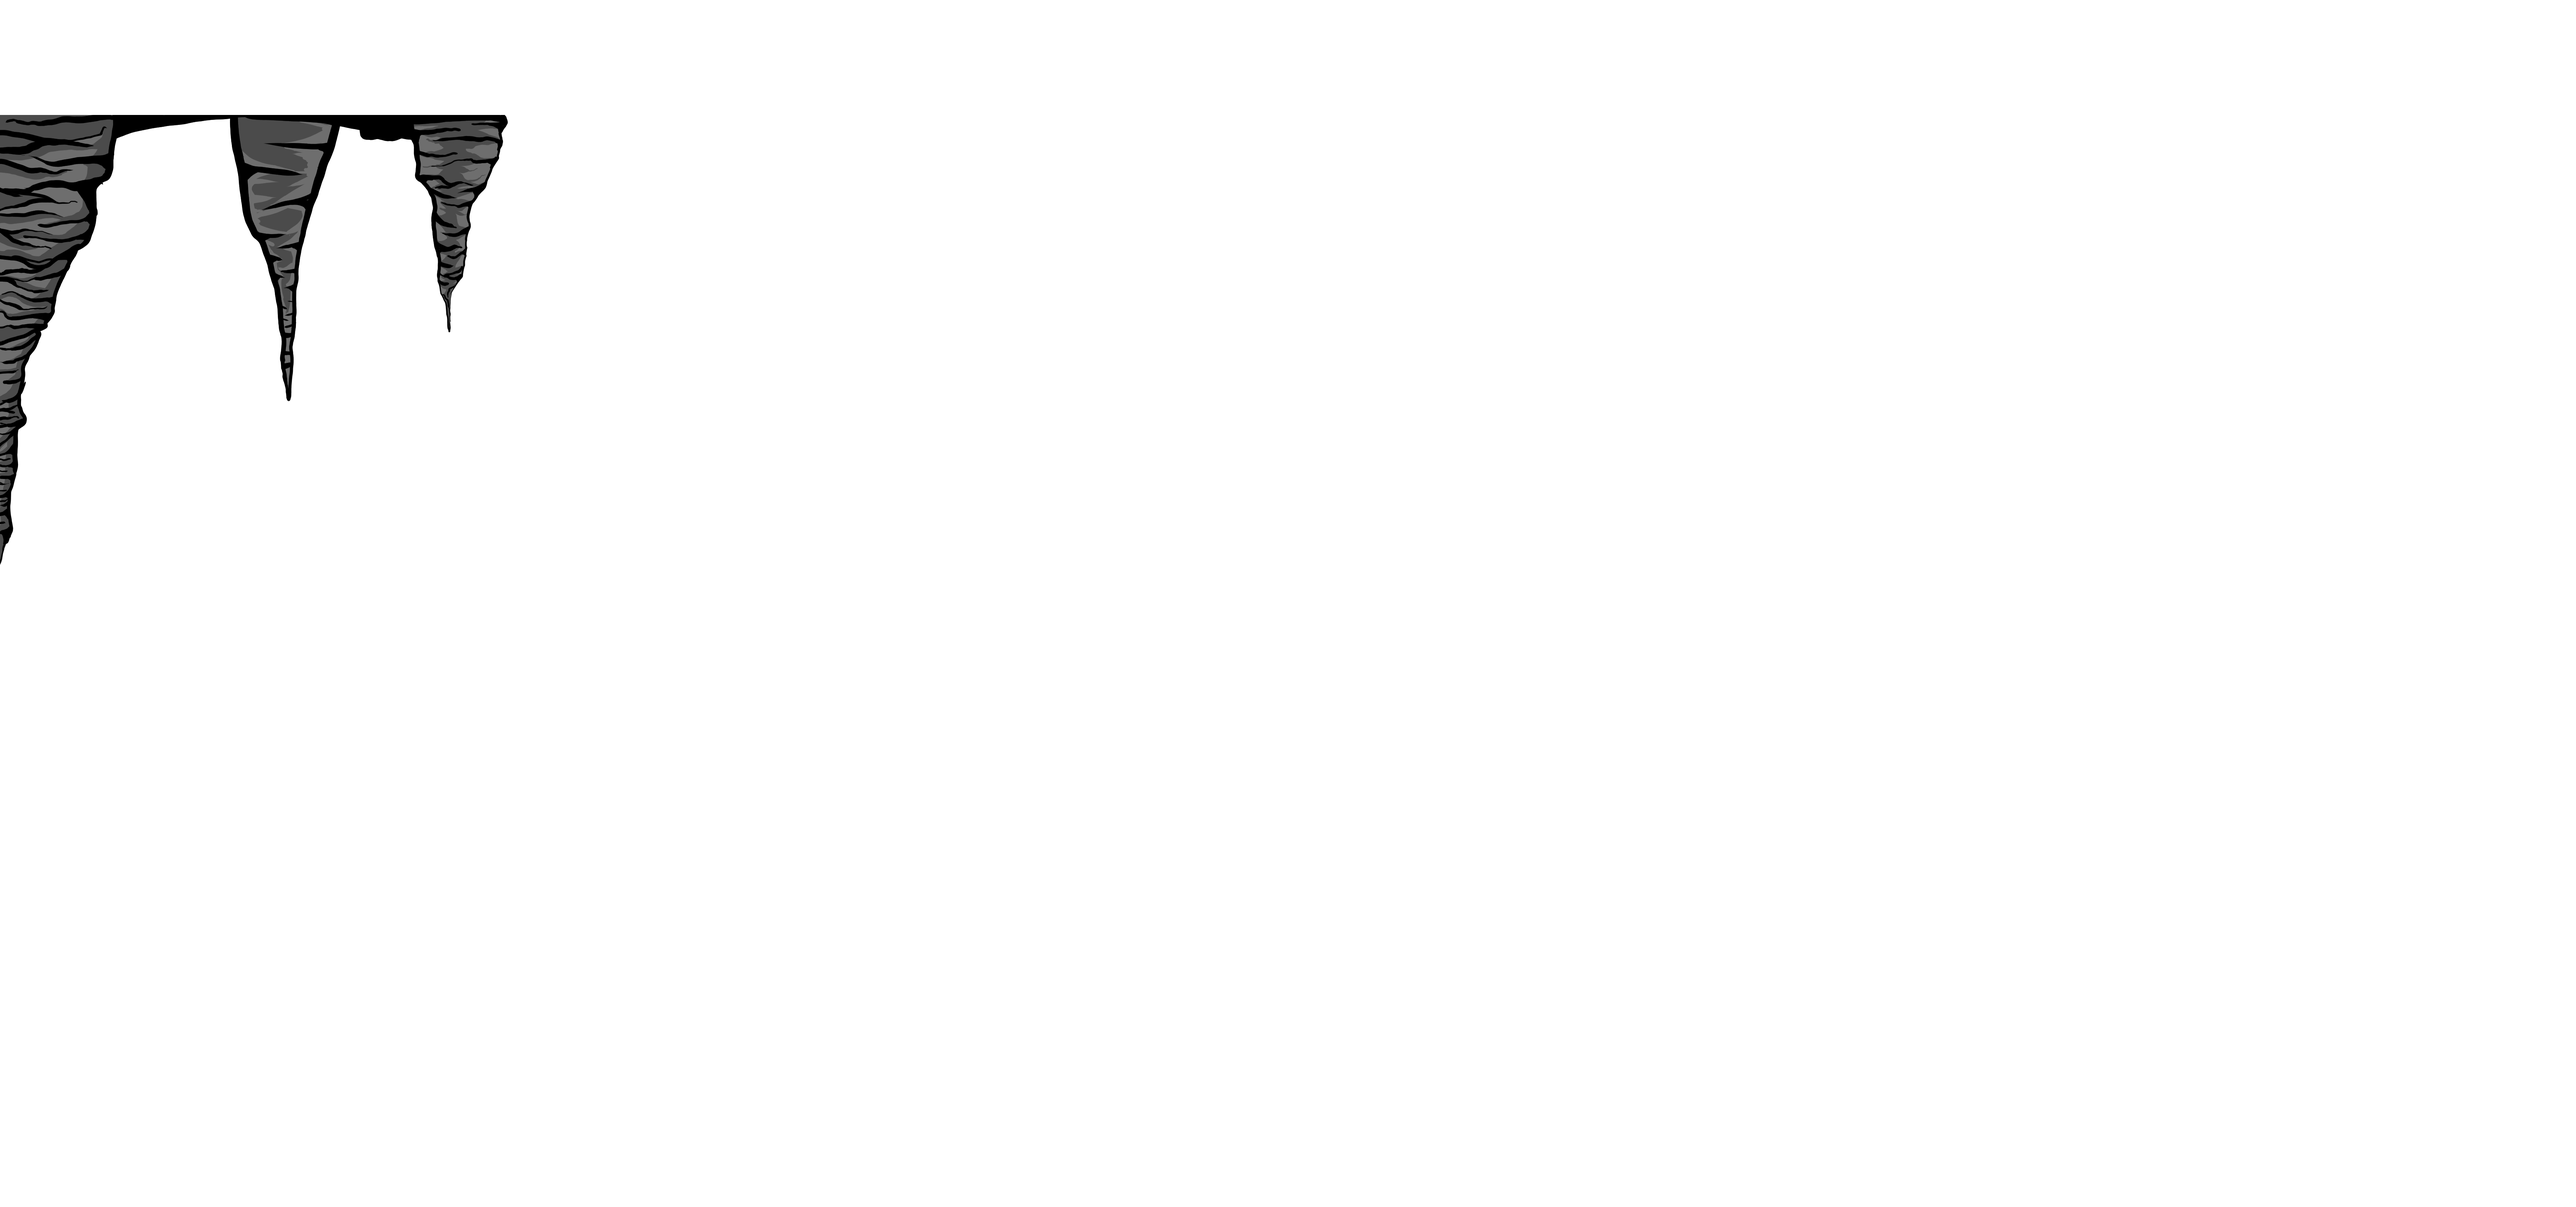
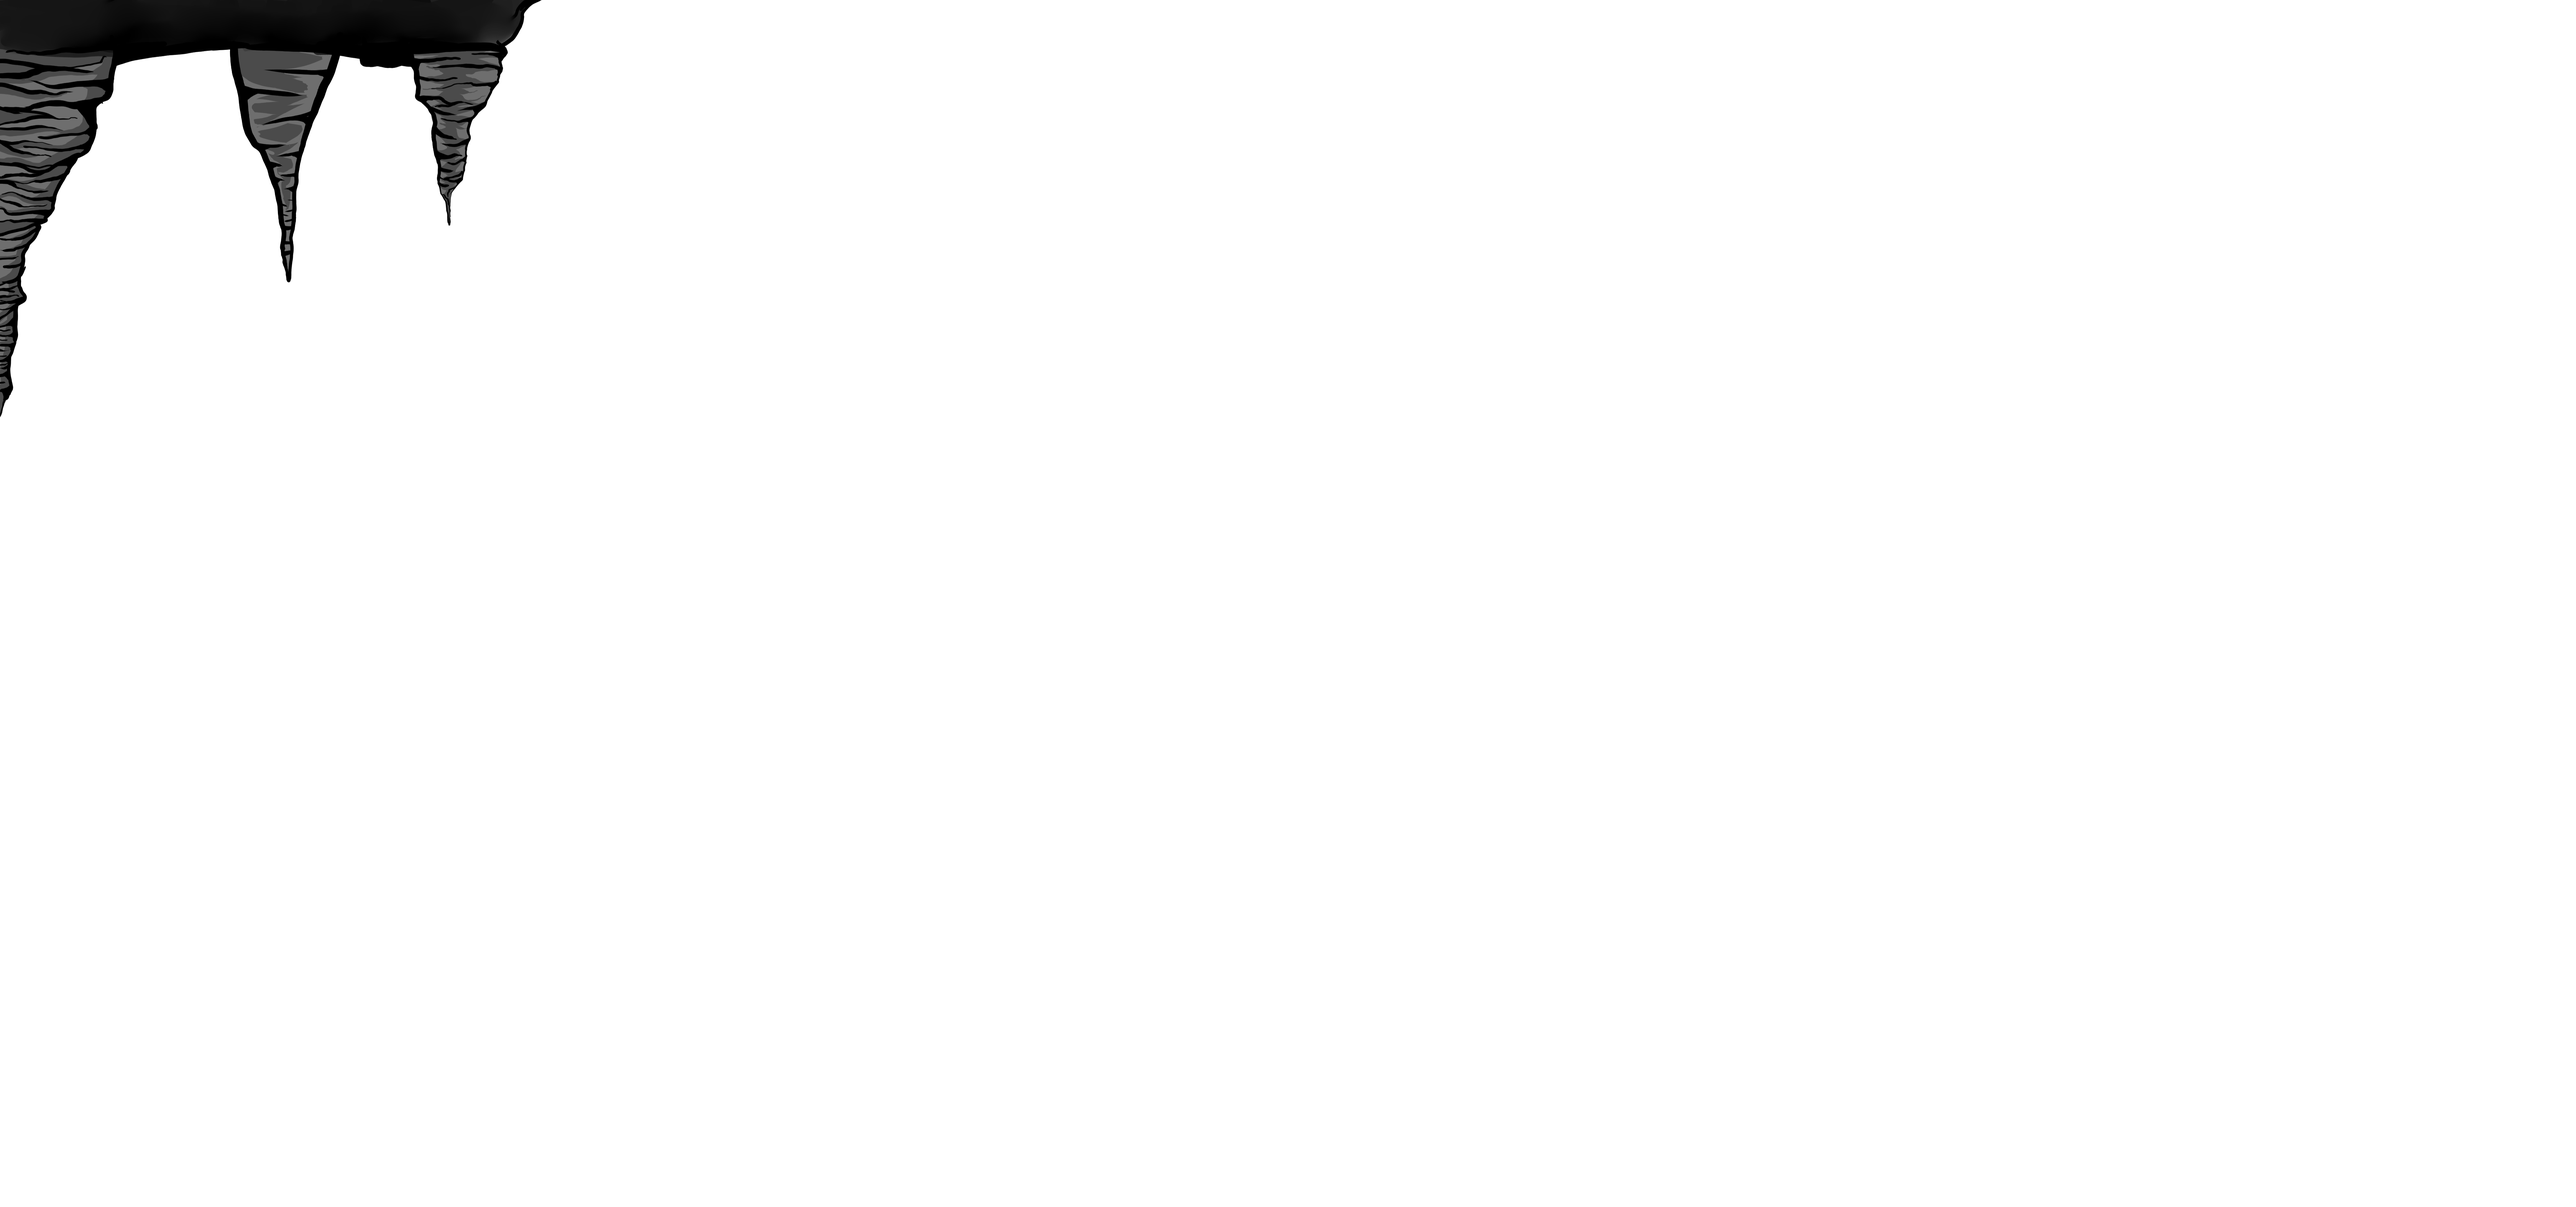
tutorial/cave: Modified backgrounds.

Changed region(s): [[0.0, 0.0, 0.2188, 0.4356]]

diff --git a/src/levels/tutorial/init.cpp b/src/levels/tutorial/init.cpp
@@ -34,14 +34,14 @@ void tutorial::init_background()
     Background cave;
     cave.pos = {
         0, 0,
-        1848,
-        1700
+        2300,
+        1730
     };
 
     Layer layers[] {
-        { -3, "assets/bg/tutorial/cave/-3.png" },
-        { -2, "assets/bg/tutorial/cave/-2.png" },
-        { -1, "assets/bg/tutorial/cave/-1.png" },
+        { -3, "assets/bg/tutorial/cave/_3.png" },
+        { -2, "assets/bg/tutorial/cave/_2.png" },
+        { -1, "assets/bg/tutorial/cave/_1.png" },
         { 0, "assets/bg/tutorial/cave/0.png" },
         { 1, "assets/bg/tutorial/cave/1.png" },
         { 2, "assets/bg/tutorial/cave/2.png" },

diff --git a/src/resize_camera.cpp b/src/resize_camera.cpp
@@ -1,5 +1,6 @@
 #include "camera.hpp"
 #include "render.hpp"
+#include <cmath>
 
 #ifdef __EMSCRIPTEN__
 #include <emscripten.h>
@@ -33,7 +34,7 @@ void resize_camera()
 void adjust_zoom()
 {
     static float old_zoom = zoom;
-    zoom = std::min(
+    zoom = std::fmin(
         camera.w / target_camera_size.x,
         camera.h / target_camera_size.y
     );
